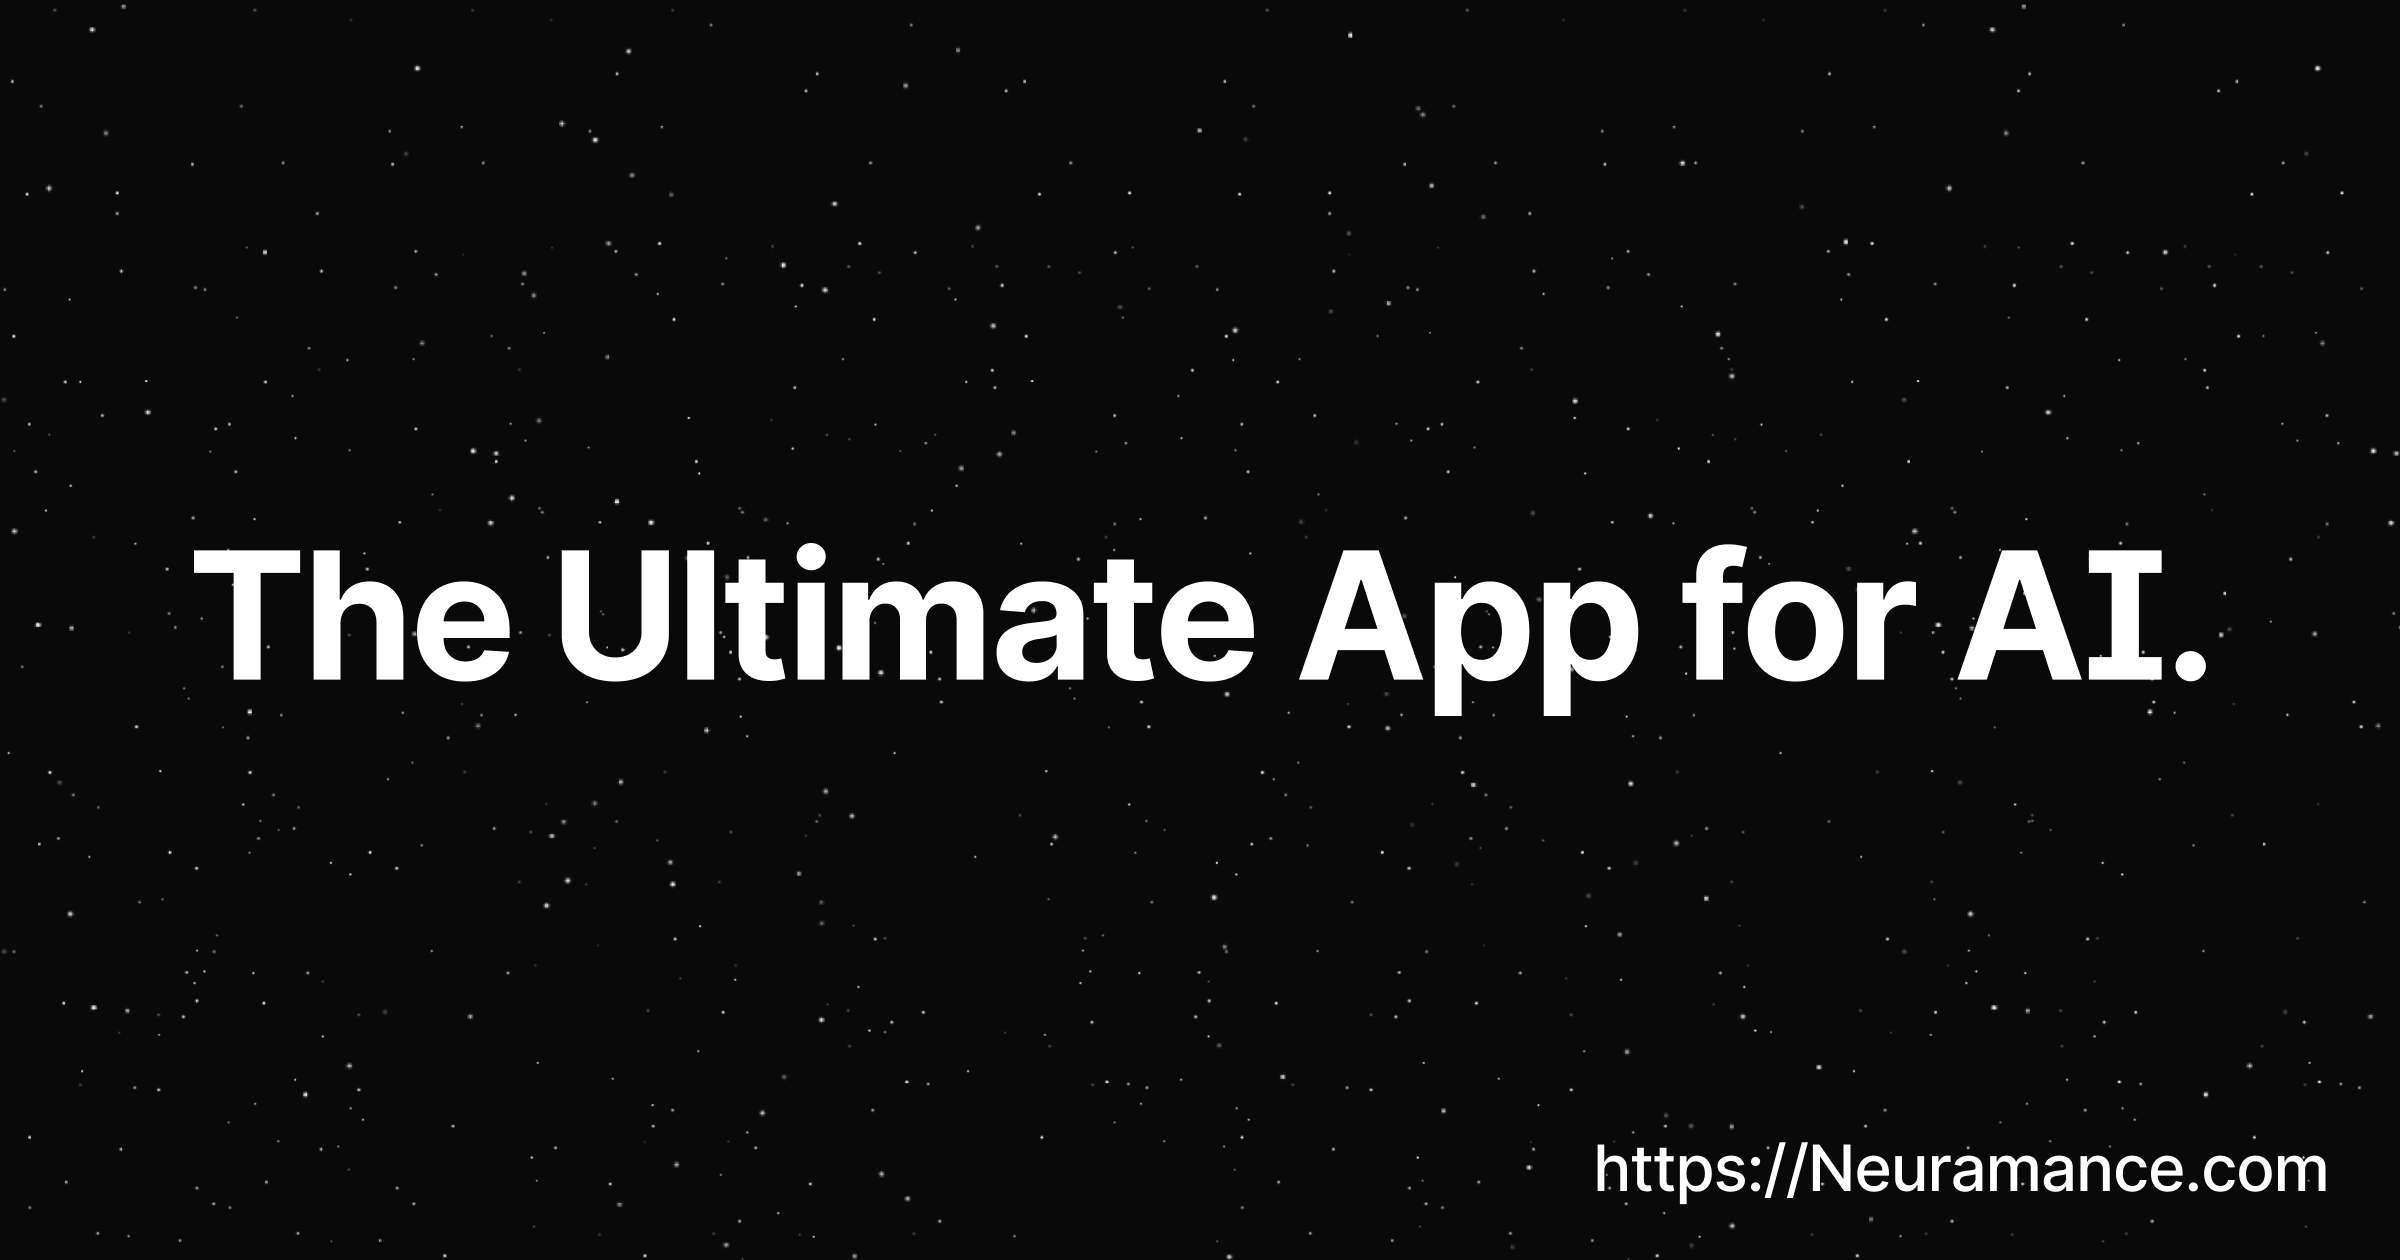
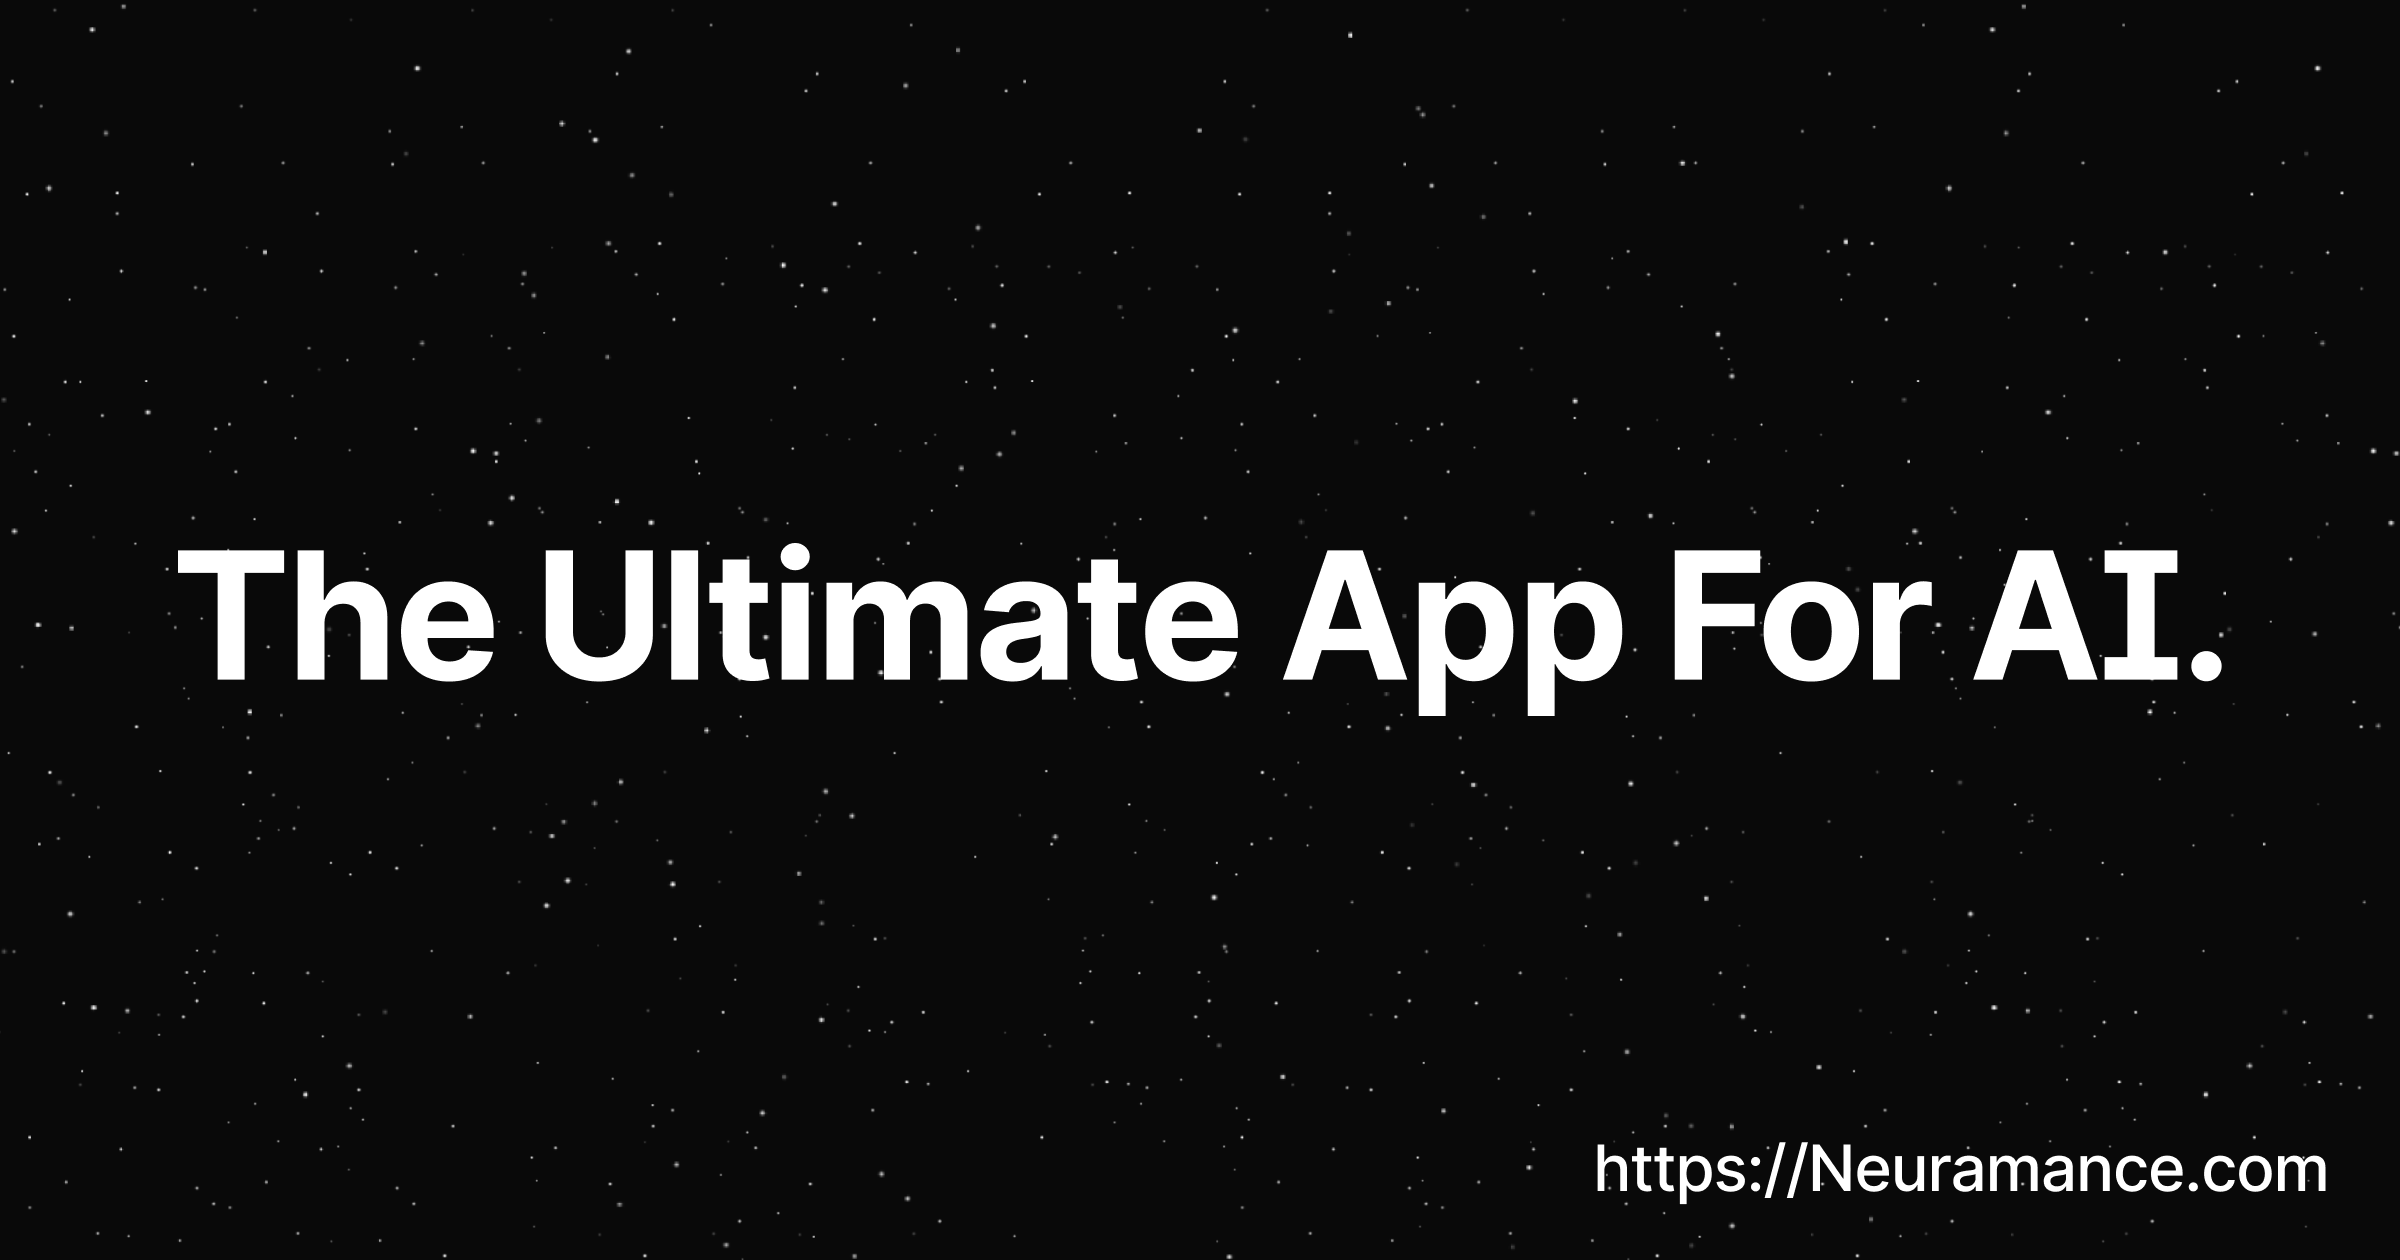
update home nav

Changed region(s): [[0.0625, 0.4333, 0.9375, 0.5881]]

diff --git a/app/ui/home/nav.tsx b/app/ui/home/nav.tsx
@@ -45,7 +45,7 @@ export default function HomepageNav() {
                   <li className="row-span-3">
                     <NavigationMenuLink asChild>
                       <a
-                        className="flex h-full w-full select-none flex-col justify-end rounded-md bg-secondary p-6 no-underline outline-none focus:shadow-md"
+                        className="flex h-full w-full select-none flex-col justify-end rounded-md bg-muted p-6 no-underline outline-none focus:shadow-md"
                         href="/"
                       >
                         <Icons.logo className="h-6 w-6" />
@@ -81,12 +81,22 @@ export default function HomepageNav() {
                 </NavigationMenuLink>
               </Link>
             </NavigationMenuItem>
+            <NavigationMenuItem>
+              <Link href="/contact" legacyBehavior passHref>
+                <NavigationMenuLink className={navigationMenuTriggerStyle()}>
+                  Contact
+                </NavigationMenuLink>
+              </Link>
+            </NavigationMenuItem>
           </NavigationMenuList>
         </NavigationMenu>
 
-        <Button size="nav" variant="outline">
-          Sign in
-        </Button>
+        <div className="flex gap-1">
+          <Button size="nav" variant="blank">
+            Log in
+          </Button>
+          <Button size="nav">Sign up</Button>
+        </div>
       </div>
     </header>
   );

diff --git a/app/ui/button.tsx b/app/ui/button.tsx
@@ -5,7 +5,7 @@ import * as React from 'react';
 import { cn } from '@/app/lib/utils';
 
 const buttonVariants = cva(
-  'inline-flex items-center justify-center whitespace-nowrap rounded-md text-sm font-medium ring-offset-background transition-colors focus-visible:outline-none focus-visible:ring-2 focus-visible:ring-ring focus-visible:ring-offset-2 disabled:pointer-events-none disabled:opacity-50',
+  'inline-flex items-center justify-center whitespace-nowrap rounded-lg text-sm font-medium ring-offset-background transition-colors focus-visible:outline-none focus-visible:ring-2 focus-visible:ring-ring focus-visible:ring-offset-2 disabled:pointer-events-none disabled:opacity-50',
   {
     variants: {
       variant: {
@@ -15,13 +15,14 @@ const buttonVariants = cva(
         outline: 'border border-border bg-background hover:bg-border',
         secondary:
           'bg-secondary text-secondary-foreground hover:bg-secondary/80',
-        ghost: 'hover:bg-accent hover:text-accent-foreground',
+        ghost: 'hover:bg-border',
         link: 'text-primary underline-offset-4 hover:underline',
+        blank: '',
       },
       size: {
         default: 'h-10 px-4 py-2',
-        sm: 'h-9 rounded-md px-3',
-        lg: 'h-11 rounded-md px-8',
+        sm: 'h-9 rounded-lg px-3',
+        lg: 'h-11 rounded-lg px-8',
         icon: 'h-10 w-10',
         nav: 'h-8 px-4 py-2',
       },

diff --git a/app/ui/home/hero.tsx b/app/ui/home/hero.tsx
@@ -9,10 +9,10 @@ export function Hero() {
       <div className="container px-4 md:px-6">
         <div className="flex flex-col justify-center space-y-8 text-center">
           <div className="space-y-2">
-            <h1 className="ss-disambiguation ss-i-with-serif bg-gradient-to-r from-white to-gray-400 bg-clip-text text-3xl font-bold tracking-tight text-transparent sm:text-5xl xl:text-6xl/none">
+            <h1 className="bg-gradient-to-r from-white to-gray-400 bg-clip-text text-3xl font-bold tracking-tight text-transparent ss-disambiguation ss-i-with-serif sm:text-5xl xl:text-6xl/none">
               The Ultimate App For AI.
             </h1>
-            <p className="ss-i-with-serif text-zinc-200\ mx-auto max-w-[600px] dark:text-zinc-100 md:text-xl">
+            <p className="text-zinc-200\ mx-auto max-w-[600px] ss-i-with-serif dark:text-zinc-100 md:text-xl">
               Neuramance is the modern command center for everyday AI. Deploy
               autonomous agents that collaborate, oversee agentic productivity,
               query knowledge, & more.

diff --git a/tailwind.config.ts b/tailwind.config.ts
@@ -38,7 +38,7 @@ const config = {
         foreground: 'hsl(var(--foreground))',
         primary: {
           DEFAULT: 'hsl(var(--primary))',
-          foreground: 'hsl(var(--primary-foreground))',
+          foreground: 'var(--primary-foreground)',
         },
         secondary: {
           DEFAULT: 'var(--secondary)',
@@ -49,7 +49,7 @@ const config = {
           foreground: 'hsl(var(--destructive-foreground))',
         },
         muted: {
-          DEFAULT: 'hsl(var(--muted))',
+          DEFAULT: 'var(--muted)',
           foreground: 'var(--muted-foreground)',
         },
         accent: {

diff --git a/app/ui/global.css b/app/ui/global.css
@@ -13,13 +13,13 @@
     --popover: 222.2 84% 4.9%;
     --popover-foreground: 210 40% 98%;
 
-    --primary: 210 40% 98%;
-    --primary-foreground: 222.2 47.4% 11.2%;
+    --primary: 211 77% 44%;
+    --primary-foreground: #ffffff;
 
     --secondary: #0b0b0b;
     --secondary-foreground: 210 40% 98%;
 
-    --muted: 217.2 32.6% 17.5%;
+    --muted: #0b0b0b;
     --muted-foreground: #b8b8b8;
 
     --accent: 217.2 32.6% 17.5%;

diff --git a/app/layout.tsx b/app/layout.tsx
@@ -9,8 +9,8 @@ export const metadata: Metadata = {
     template: '%s | Neuramance',
     default: 'Neuramance',
   },
-  description: 'The Ultimate AI App.',
-  metadataBase: new URL('https://neuramance.com'),
+  description: 'The Ultimate App For AI.',
+  metadataBase: new URL('https://Neuramance.com'),
 };
 
 const fontSans = localFont({
